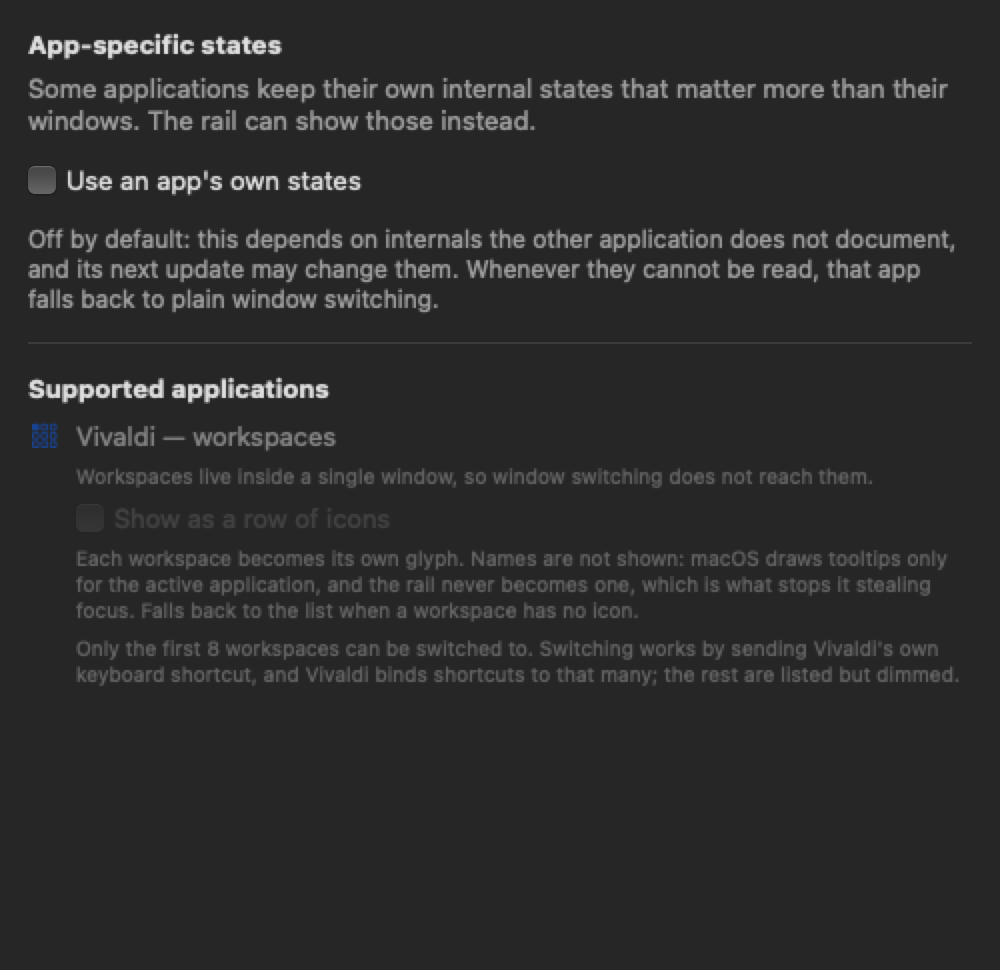
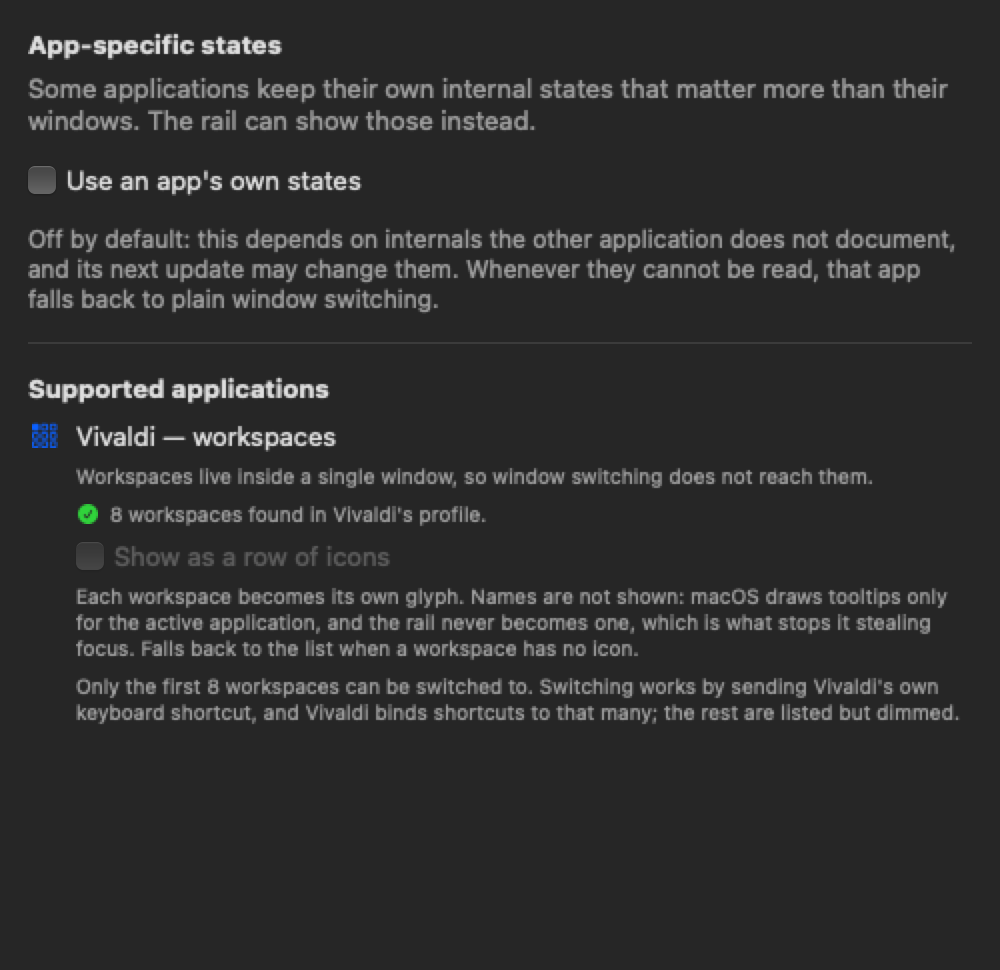
Say why Vivaldi workspaces are unavailable
Reading Vivaldi's profile fails softly by design, but a silent fall back to
window switching looks exactly like the feature being broken. The Advanced
tab now reports what the read produced: how many workspaces were found, or
which of the four ways it failed — a missing profile, an unreadable file, no
workspaces yet, or the one worth naming, a layout that no longer matches
because Vivaldi moved the list.

The status is read when the window opens rather than on every redraw, since
the profile is a sizeable file and nothing here changes second to second;
the recheck link appears only once there is something to recheck.

The explanations in that block are no longer dimmed along with the toggle —
deciding whether to switch something on is exactly when you want to read
them.

Changed region(s): [[0.031, 0.433, 0.961, 0.7423]]

diff --git a/Sources/PaneRail/UI/AdvancedSettingsView.swift b/Sources/PaneRail/UI/AdvancedSettingsView.swift
@@ -6,6 +6,10 @@ import SwiftUI
 struct AdvancedSettingsView: View {
     @ObservedObject var preferences: Preferences
 
+    /// Read when the window opens rather than on every redraw: the profile is
+    /// a sizeable JSON file and nothing here changes second to second.
+    @State private var vivaldiStatus: VivaldiWorkspacesStatus?
+
     var body: some View {
         VStack(alignment: .leading, spacing: 14) {
             VStack(alignment: .leading, spacing: 6) {
@@ -51,7 +55,10 @@ struct AdvancedSettingsView: View {
                             .foregroundStyle(.secondary)
                             .fixedSize(horizontal: false, vertical: true)
 
+                        vivaldiStatusLine
+
                         Toggle("Show as a row of icons", isOn: $preferences.vivaldiIconStrip)
+                            .disabled(!preferences.appSpecificProviders)
                         Text("""
                         Each workspace becomes its own glyph. Names are not shown: \
                         macOS draws tooltips only for the active application, and \
@@ -74,11 +81,36 @@ struct AdvancedSettingsView: View {
                             .fixedSize(horizontal: false, vertical: true)
                     }
                 }
-                .disabled(!preferences.appSpecificProviders)
-                .opacity(preferences.appSpecificProviders ? 1 : 0.5)
             }
 
             Spacer(minLength: 0)
+        }
+        .onAppear { vivaldiStatus = VivaldiWorkspaces.status() }
+    }
+
+    /// Says what the profile read produced. Without this a Vivaldi update that
+    /// moves the workspace list looks exactly like the feature being broken:
+    /// the rail just goes back to showing windows.
+    @ViewBuilder
+    private var vivaldiStatusLine: some View {
+        if let status = vivaldiStatus {
+            HStack(alignment: .top, spacing: 5) {
+                Image(systemName: status.isHealthy ? "checkmark.circle.fill" : "exclamationmark.triangle.fill")
+                    .foregroundStyle(status.isHealthy ? Color.green : Color.orange)
+
+                VStack(alignment: .leading, spacing: 1) {
+                    Text(status.summary)
+                        .fixedSize(horizontal: false, vertical: true)
+                    // Only worth offering once there is something to fix.
+                    if !status.isHealthy {
+                        Button("Recheck") { vivaldiStatus = VivaldiWorkspaces.status() }
+                            .buttonStyle(.link)
+                    }
+                }
+            }
+            .frame(width: 400, alignment: .leading)
+            .font(.caption)
+            .foregroundStyle(.secondary)
         }
     }
 }

diff --git a/Sources/PaneRailKit/VivaldiWorkspaces.swift b/Sources/PaneRailKit/VivaldiWorkspaces.swift
@@ -25,6 +25,24 @@ public enum VivaldiWorkspacesError: Error, Equatable {
     case unexpectedLayout
 }
 
+/// Why the workspace list is or is not available.
+///
+/// Everything here reads undocumented internals, so failure is normal and
+/// recoverable — but a silent fall back to window switching is indistinguishable
+/// from the feature being broken, so the reason is reported.
+public enum VivaldiWorkspacesStatus: Equatable {
+    /// No Vivaldi profile where one is expected.
+    case profileNotFound
+    /// The file is there but could not be read or is not JSON.
+    case unreadable
+    /// Read fine, but the workspace list is not where it used to be — most
+    /// likely a Vivaldi update moved it.
+    case unexpectedLayout
+    /// Read fine, and Vivaldi has no workspaces yet.
+    case noWorkspaces
+    case ok(count: Int)
+}
+
 /// Reads Vivaldi's workspaces out of its profile.
 ///
 /// Vivaldi exposes no API for this: the `vivaldi.*` JavaScript namespace is
@@ -64,6 +82,22 @@ public enum VivaldiWorkspaces {
             else { return nil }
             let id = (item["id"] as? NSNumber)?.doubleValue ?? Double(index)
             return VivaldiWorkspace(id: id, name: name, index: index, icon: item["icon"] as? String)
+        }
+    }
+
+    /// The same read as `load`, but reporting what went wrong.
+    public static func status(at url: URL? = nil) -> VivaldiWorkspacesStatus {
+        let url = url ?? preferencesURL()
+        guard FileManager.default.fileExists(atPath: url.path) else { return .profileNotFound }
+        guard let data = try? Data(contentsOf: url) else { return .unreadable }
+
+        do {
+            let workspaces = try parse(preferences: data)
+            return workspaces.isEmpty ? .noWorkspaces : .ok(count: workspaces.count)
+        } catch VivaldiWorkspacesError.unexpectedLayout {
+            return .unexpectedLayout
+        } catch {
+            return .unreadable
         }
     }
 

diff --git a/Tests/PaneRailKitTests/VivaldiWorkspacesTests.swift b/Tests/PaneRailKitTests/VivaldiWorkspacesTests.swift
@@ -69,3 +69,48 @@ final class VivaldiWorkspacesTests: XCTestCase {
         XCTAssertTrue(VivaldiWorkspaces.load(from: url).isEmpty)
     }
 }
+
+final class VivaldiWorkspacesStatusTests: XCTestCase {
+    private var fileURL: URL!
+
+    override func setUp() {
+        super.setUp()
+        fileURL = URL(fileURLWithPath: NSTemporaryDirectory())
+            .appendingPathComponent("panerail-status-\(UUID().uuidString).json")
+    }
+
+    override func tearDown() {
+        try? FileManager.default.removeItem(at: fileURL)
+        super.tearDown()
+    }
+
+    private func write(_ json: String) {
+        try? Data(json.utf8).write(to: fileURL)
+    }
+
+    func testReportsHowManyWorkspacesWereFound() {
+        write(#"{"vivaldi":{"workspaces":{"list":[{"id":1,"name":"Work"},{"id":2,"name":"Home"}]}}}"#)
+        XCTAssertEqual(VivaldiWorkspaces.status(at: fileURL), .ok(count: 2))
+    }
+
+    func testReportsAMissingProfile() {
+        XCTAssertEqual(VivaldiWorkspaces.status(at: fileURL), .profileNotFound)
+    }
+
+    func testReportsAnUnreadableFile() {
+        write("{not json")
+        XCTAssertEqual(VivaldiWorkspaces.status(at: fileURL), .unreadable)
+    }
+
+    /// The case worth telling the user about by name: a Vivaldi update moved
+    /// the list, and no amount of retrying will help.
+    func testReportsAnUnfamiliarLayout() {
+        write(#"{"vivaldi":{"workspaces":{}}}"#)
+        XCTAssertEqual(VivaldiWorkspaces.status(at: fileURL), .unexpectedLayout)
+    }
+
+    func testDistinguishesNoWorkspacesFromAFailure() {
+        write(#"{"vivaldi":{"workspaces":{"list":[]}}}"#)
+        XCTAssertEqual(VivaldiWorkspaces.status(at: fileURL), .noWorkspaces)
+    }
+}

diff --git a/Sources/PaneRail/UI/VivaldiStatusText.swift b/Sources/PaneRail/UI/VivaldiStatusText.swift
@@ -1,0 +1,23 @@
+import PaneRailKit
+
+extension VivaldiWorkspacesStatus {
+    var isHealthy: Bool {
+        if case .ok = self { return true }
+        return false
+    }
+
+    var summary: String {
+        switch self {
+        case .ok(let count):
+            return "\(count) workspace\(count == 1 ? "" : "s") found in Vivaldi's profile."
+        case .noWorkspaces:
+            return "Vivaldi's profile has no workspaces yet."
+        case .profileNotFound:
+            return "No Vivaldi profile found. Is Vivaldi installed?"
+        case .unreadable:
+            return "Vivaldi's profile could not be read."
+        case .unexpectedLayout:
+            return "Vivaldi's profile no longer stores workspaces where PaneRail looks — most likely a Vivaldi update. The rail falls back to windows."
+        }
+    }
+}

diff --git a/docs/ARCHITECTURE.md b/docs/ARCHITECTURE.md
@@ -59,4 +59,7 @@ assumed:
   rather than draw a distorted shape.
 
 All of it is undocumented internal structure, so every failure is soft: the app
-falls back to plain window switching rather than showing nothing.
+falls back to plain window switching rather than showing nothing. Because that
+fallback is indistinguishable from the feature being broken, the Advanced tab
+reports what the profile read produced — including, by name, the case where a
+Vivaldi update has moved the list.
